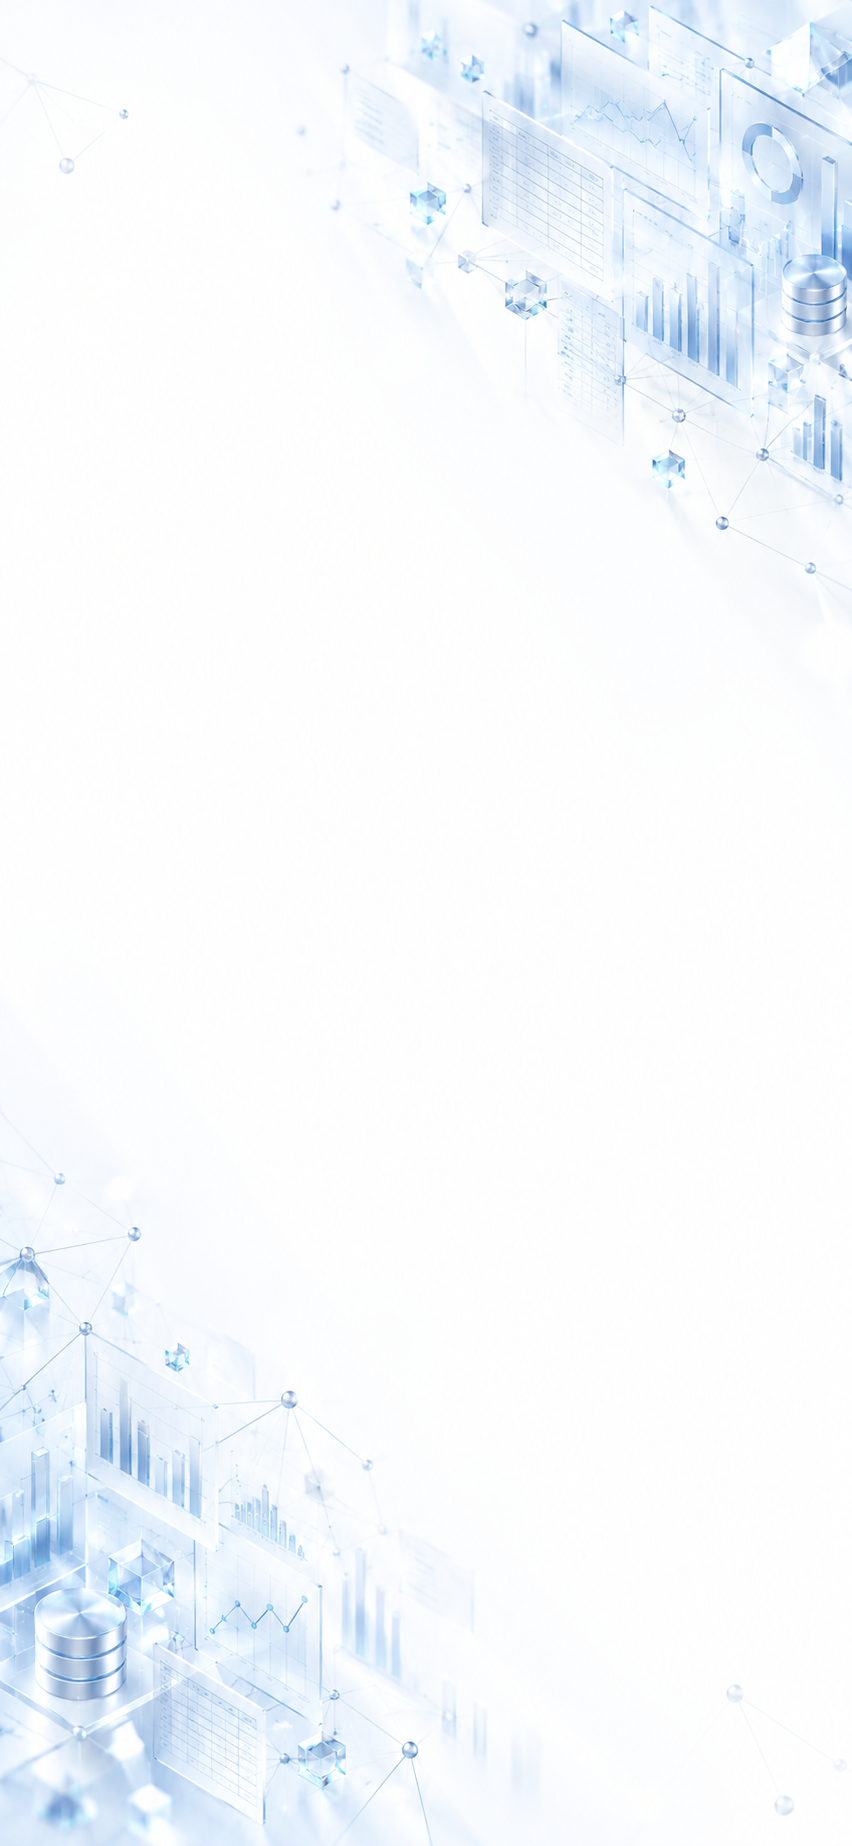
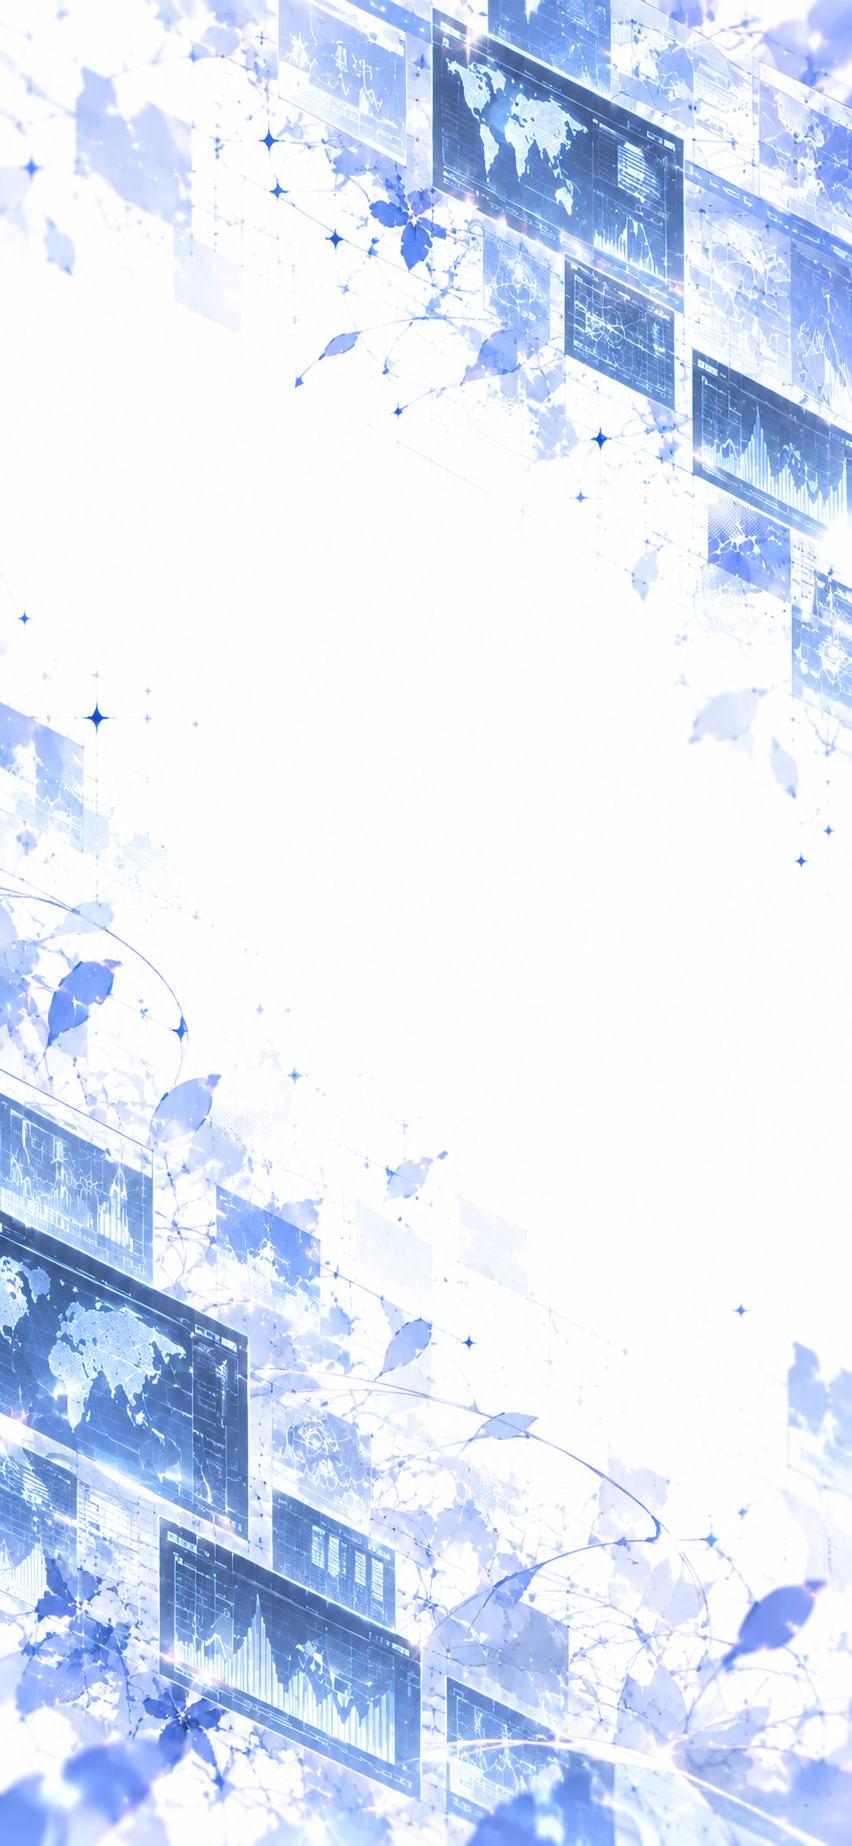
Separate unscheduled events and add display ordering

diff --git a/app/page.tsx b/app/page.tsx
@@ -15,6 +15,7 @@ type EventRow = {
   title: string;
   description: string | null;
   start_at: string | null;
+  undecided_sort_order: number;
   location: string | null;
   fee: number;
   image_url: string | null;
@@ -57,7 +58,8 @@ export default function Home() {
   );
   const visibleEvents = selectedMonth
     ? events.filter((event) => event.start_at && toMonthKey(event.start_at) === selectedMonth)
-    : events;
+    : events.filter((event) => event.start_at);
+  const undecidedEvents = events.filter((event) => !event.start_at).sort((a, b) => a.undecided_sort_order - b.undecided_sort_order || a.title.localeCompare(b.title, "ja"));
 
   useEffect(() => {
     let active = true;
@@ -74,7 +76,7 @@ export default function Home() {
       const [eventResult, imageResult, settingsResult, bannerResult, footerResult] = await Promise.all([
         supabase
           .from("events")
-          .select("id, title, description, start_at, location, fee, is_ubm")
+          .select("id, title, description, start_at, undecided_sort_order, location, fee, is_ubm")
           .eq("status", "published")
           .order("start_at", { ascending: true, nullsFirst: false }),
         supabase
@@ -225,13 +227,18 @@ export default function Home() {
 
         {!loading && !errorMessage && events.length > 0 && visibleEvents.length === 0 && (
           <div className="rounded-3xl bg-white p-10 text-center shadow-sm">
-            <p className="font-bold text-neutral-800">選択した月に開催予定のイベントはありません。</p>
+            <p className="font-bold text-neutral-800">{selectedMonth ? "選択した月に開催予定のイベントはありません。" : "開催日が決まっているイベントはありません。"}</p>
           </div>
         )}
 
-        {!loading && !errorMessage && visibleEvents.length > 0 && (
+        {!loading && !errorMessage && [
+          { key: "scheduled", items: visibleEvents },
+          { key: "undecided", items: undecidedEvents },
+        ].filter((group) => group.items.length > 0).map((group) => (
+          <div key={group.key}>
+          {group.key === "undecided" && <div className="mb-7 mt-12"><p className="text-sm font-bold text-blue-600">開催未定</p><h2 className="mt-2 text-3xl font-black text-neutral-900">ご希望に合わせて開催します</h2></div>}
           <div className="grid gap-6 md:grid-cols-2 lg:grid-cols-4">
-            {visibleEvents.map((event) => (
+            {group.items.map((event) => (
               <Link key={event.id} href={`/events/${event.id}`} className="flex h-full flex-col overflow-hidden rounded-2xl bg-white shadow-sm transition hover:-translate-y-0.5 hover:shadow-md">
                   <div className="aspect-video w-full shrink-0 overflow-hidden bg-neutral-200">
                     {event.image_url ? (
@@ -267,7 +274,8 @@ export default function Home() {
               </Link>
             ))}
           </div>
-        )}
+          </div>
+        ))}
       </section>
       <SocialFooter settings={footerSettings} />
       <BannerSection banners={banners} />

diff --git a/app/mypage/page.tsx b/app/mypage/page.tsx
@@ -27,6 +27,7 @@ type EventData = {
   description: string | null;
   image_url: string | null;
   start_at: string | null;
+  undecided_sort_order: number;
   end_at: string | null;
   location: string | null;
   capacity: number | null;
@@ -187,6 +188,7 @@ export default function MyPage() {
             title,
             description,
             start_at,
+          undecided_sort_order,
             end_at,
             location,
             capacity,
@@ -238,6 +240,7 @@ export default function MyPage() {
           title,
           description,
           start_at,
+          undecided_sort_order,
           end_at,
           location,
           capacity,
@@ -334,6 +337,8 @@ export default function MyPage() {
     loadMyPage();
   }, [router]);
 
+  const scheduledEvents = allEvents.filter((event) => event.start_at);
+  const undecidedEvents = allEvents.filter((event) => !event.start_at).sort((a, b) => a.undecided_sort_order - b.undecided_sort_order || a.title.localeCompare(b.title, "ja"));
   const nearestTask = assignedTasks.find((task) => !task.completed_at) ?? null;
   const selectedPastMonth = pastMonth || pastEvents.map((event) => eventMonth(event.start_at)).sort().at(-1) || eventMonth(new Date().toISOString());
   const monthlyPastEvents = pastEvents.filter((event) => eventMonth(event.start_at) === selectedPastMonth);
@@ -474,19 +479,19 @@ export default function MyPage() {
             </div>
 
             <span className="text-sm text-neutral-500">
-              {allEvents.length}件
+              {scheduledEvents.length}件
             </span>
           </div>
 
-          {allEvents.length === 0 ? (
+          {scheduledEvents.length === 0 ? (
             <div className="rounded-3xl bg-white px-6 py-12 text-center shadow-sm">
               <p className="font-medium text-neutral-700">
-                現在公開中のイベントはありません
+                開催日が決まっているイベントはありません
               </p>
             </div>
           ) : (
             <div className="grid gap-6 md:grid-cols-2 lg:grid-cols-4">
-              {allEvents.map((event) => (
+              {scheduledEvents.map((event) => (
                 <EventCard
                   key={event.id}
                   event={event}
@@ -495,6 +500,8 @@ export default function MyPage() {
             </div>
           )}
         </section>
+
+        {undecidedEvents.length > 0 && <section className="mb-10"><p className="text-sm font-bold text-blue-600">開催未定</p><h2 className="mb-5 mt-2 text-2xl font-bold text-neutral-900">ご希望に合わせて開催します</h2><div className="grid gap-6 md:grid-cols-2 lg:grid-cols-4">{undecidedEvents.map((event) => <EventCard key={event.id} event={event} />)}</div></section>}
 
         {pastEvents.length > 0 && (
           <section className="mb-10">

diff --git a/components/EventScheduleFields.tsx b/components/EventScheduleFields.tsx
@@ -1,15 +1,17 @@
 "use client";
 
-export default function EventScheduleFields({ undecided, onUndecidedChange, startAt, endAt, onStartChange, onEndChange, disabled }: {
+export default function EventScheduleFields({ displayOrder, onDisplayOrderChange, undecided, onUndecidedChange, startAt, endAt, onStartChange, onEndChange, disabled }: {
   undecided: boolean; onUndecidedChange: (value: boolean) => void;
   startAt: string; endAt: string; onStartChange: (value: string) => void; onEndChange: (value: string) => void;
   disabled: boolean;
+  displayOrder: number; onDisplayOrderChange: (value: number) => void;
 }) {
   return <section>
     <label className="flex items-center gap-3 rounded-xl border border-blue-200 bg-blue-50 p-4 text-sm font-bold text-neutral-900">
       <input type="checkbox" checked={undecided} onChange={(event) => onUndecidedChange(event.target.checked)} disabled={disabled} />
       開催日未定で参加希望を募る
     </label>
+    {undecided && <label className="mt-4 block text-sm font-bold text-neutral-900">開催未定一覧の表示順<input type="number" required min={0} max={2147483647} step={1} value={displayOrder} onChange={(event) => onDisplayOrderChange(event.target.valueAsNumber)} disabled={disabled} className="mt-2 block w-full rounded-xl border border-neutral-300 bg-white px-4 py-3" /><span className="mt-2 block text-xs font-normal text-neutral-600">小さい数字から表示します。同じ数字の場合はタイトル順です。</span></label>}
     {undecided ? <p className="mt-3 text-sm leading-6 text-neutral-600">開催日時を保存せず、公式LINEで参加希望を受け付けます。日程が決まったらチェックを外し、開催日時を設定してください。公式LINEのURLはフッター設定を使用します。</p>
       : <div className="mt-5 grid gap-6 sm:grid-cols-2">
         <label className="block text-sm font-bold text-neutral-900">開始日時<input type="datetime-local" required value={startAt} onChange={(event) => onStartChange(event.target.value)} disabled={disabled} className="mt-2 w-full rounded-xl border border-neutral-300 bg-white px-4 py-3 font-normal text-neutral-900" /></label>

diff --git a/app/admin/events/[id]/page.tsx b/app/admin/events/[id]/page.tsx
@@ -31,6 +31,7 @@ type EventData = {
   title: string;
   description: string | null;
   start_at: string | null;
+  undecided_sort_order: number;
   end_at: string | null;
   location: string | null;
   capacity: number | null;
@@ -102,6 +103,7 @@ export default function AdminEventDetailPage() {
   const [description, setDescription] =
     useState("");
   const [dateUndecided, setDateUndecided] = useState(false);
+  const [displayOrder, setDisplayOrder] = useState(0);
   const [startAt, setStartAt] =
     useState("");
   const [endAt, setEndAt] =
@@ -190,6 +192,7 @@ export default function AdminEventDetailPage() {
         title,
         description,
         start_at,
+        undecided_sort_order,
         end_at,
         location,
         capacity,
@@ -230,6 +233,7 @@ export default function AdminEventDetailPage() {
 
     setEvent(typedEvent);
     setDateUndecided(!typedEvent.start_at);
+    setDisplayOrder(typedEvent.undecided_sort_order ?? 0);
 
     setTitle(typedEvent.title);
     setDescription(
@@ -755,6 +759,7 @@ function sanitizeFileName(
           description.trim() ||
           null,
 
+        undecided_sort_order: displayOrder,
         start_at: !dateUndecided && startAt
           ? new Date(
               startAt
@@ -786,6 +791,7 @@ function sanitizeFileName(
         title,
         description,
         start_at,
+        undecided_sort_order,
         end_at,
         location,
         capacity,
@@ -1037,7 +1043,7 @@ function sanitizeFileName(
                 />
               </FormField>
 
-              <EventScheduleFields undecided={dateUndecided} onUndecidedChange={setDateUndecided} startAt={startAt} endAt={endAt} onStartChange={setStartAt} onEndChange={setEndAt} disabled={saving} />
+              <EventScheduleFields displayOrder={displayOrder} onDisplayOrderChange={setDisplayOrder} undecided={dateUndecided} onUndecidedChange={setDateUndecided} startAt={startAt} endAt={endAt} onStartChange={setStartAt} onEndChange={setEndAt} disabled={saving} />
 
               <FormField label="会場">
                 <input

diff --git a/components/EventInterestCallout.tsx b/components/EventInterestCallout.tsx
@@ -1,8 +1,9 @@
 export default function EventInterestCallout({ lineUrl, title }: { lineUrl: string | null; title: string }) {
   return <section id="application" className="mt-6 scroll-mt-24 rounded-3xl bg-white p-6 shadow-sm sm:p-8">
     <p className="text-sm font-bold text-blue-600">参加希望募集中</p>
-    <h2 className="mt-2 text-2xl font-bold text-neutral-900">開催日はこれから調整します</h2>
-    <p className="mt-4 text-sm leading-7 text-neutral-600">参加をご希望の方は、公式LINEで「{title}に参加希望」とお送りください。日程についてはLINEでご案内します。</p>
+    <h2 className="mt-2 text-2xl font-bold text-neutral-900">ご希望に合わせて開催いたします</h2>
+    <p className="mt-4 text-sm leading-7 text-neutral-600">参加をご希望の方は、公式LINEで「{title}に参加希望」とお送りください。</p>
+    <p className="mt-3 text-sm leading-7 text-neutral-600">難易度が高めの為、公式ラインでやり取りの上開催日を決定させていただきます</p>
     {lineUrl ? <><a href={lineUrl} target="_blank" rel="noopener noreferrer" className="mt-5 block rounded-xl bg-green-600 px-5 py-4 text-center font-bold text-white transition hover:bg-green-700">公式LINEで参加希望を連絡する</a><p className="mt-2 text-center text-xs text-neutral-500">公式LINEが別タブで開きます。参加希望のご連絡で、参加確定ではありません。</p></>
       : <p role="status" className="mt-5 rounded-xl bg-neutral-100 p-4 text-sm text-neutral-600">参加希望の受付を準備中です。後ほどもう一度ご確認ください。</p>}
   </section>;

diff --git a/app/admin/events/new/page.tsx b/app/admin/events/new/page.tsx
@@ -54,6 +54,7 @@ export default function NewEventPage() {
   const [description, setDescription] = useState("");
 
   const [dateUndecided, setDateUndecided] = useState(false);
+  const [displayOrder, setDisplayOrder] = useState(0);
   const [startAt, setStartAt] = useState("");
   const [endAt, setEndAt] = useState("");
 
@@ -416,7 +417,8 @@ export default function NewEventPage() {
           description:
             trimmedDescription || null,
 
-          start_at: !dateUndecided && startAt
+          undecided_sort_order: displayOrder,
+        start_at: !dateUndecided && startAt
             ? new Date(
                 startAt
               ).toISOString()
@@ -661,7 +663,7 @@ export default function NewEventPage() {
                 />
               </FormField>
 
-              <EventScheduleFields undecided={dateUndecided} onUndecidedChange={setDateUndecided} startAt={startAt} endAt={endAt} onStartChange={setStartAt} onEndChange={setEndAt} disabled={saving} />
+              <EventScheduleFields displayOrder={displayOrder} onDisplayOrderChange={setDisplayOrder} undecided={dateUndecided} onUndecidedChange={setDateUndecided} startAt={startAt} endAt={endAt} onStartChange={setStartAt} onEndChange={setEndAt} disabled={saving} />
 
               <FormField label="会場">
                 <input
